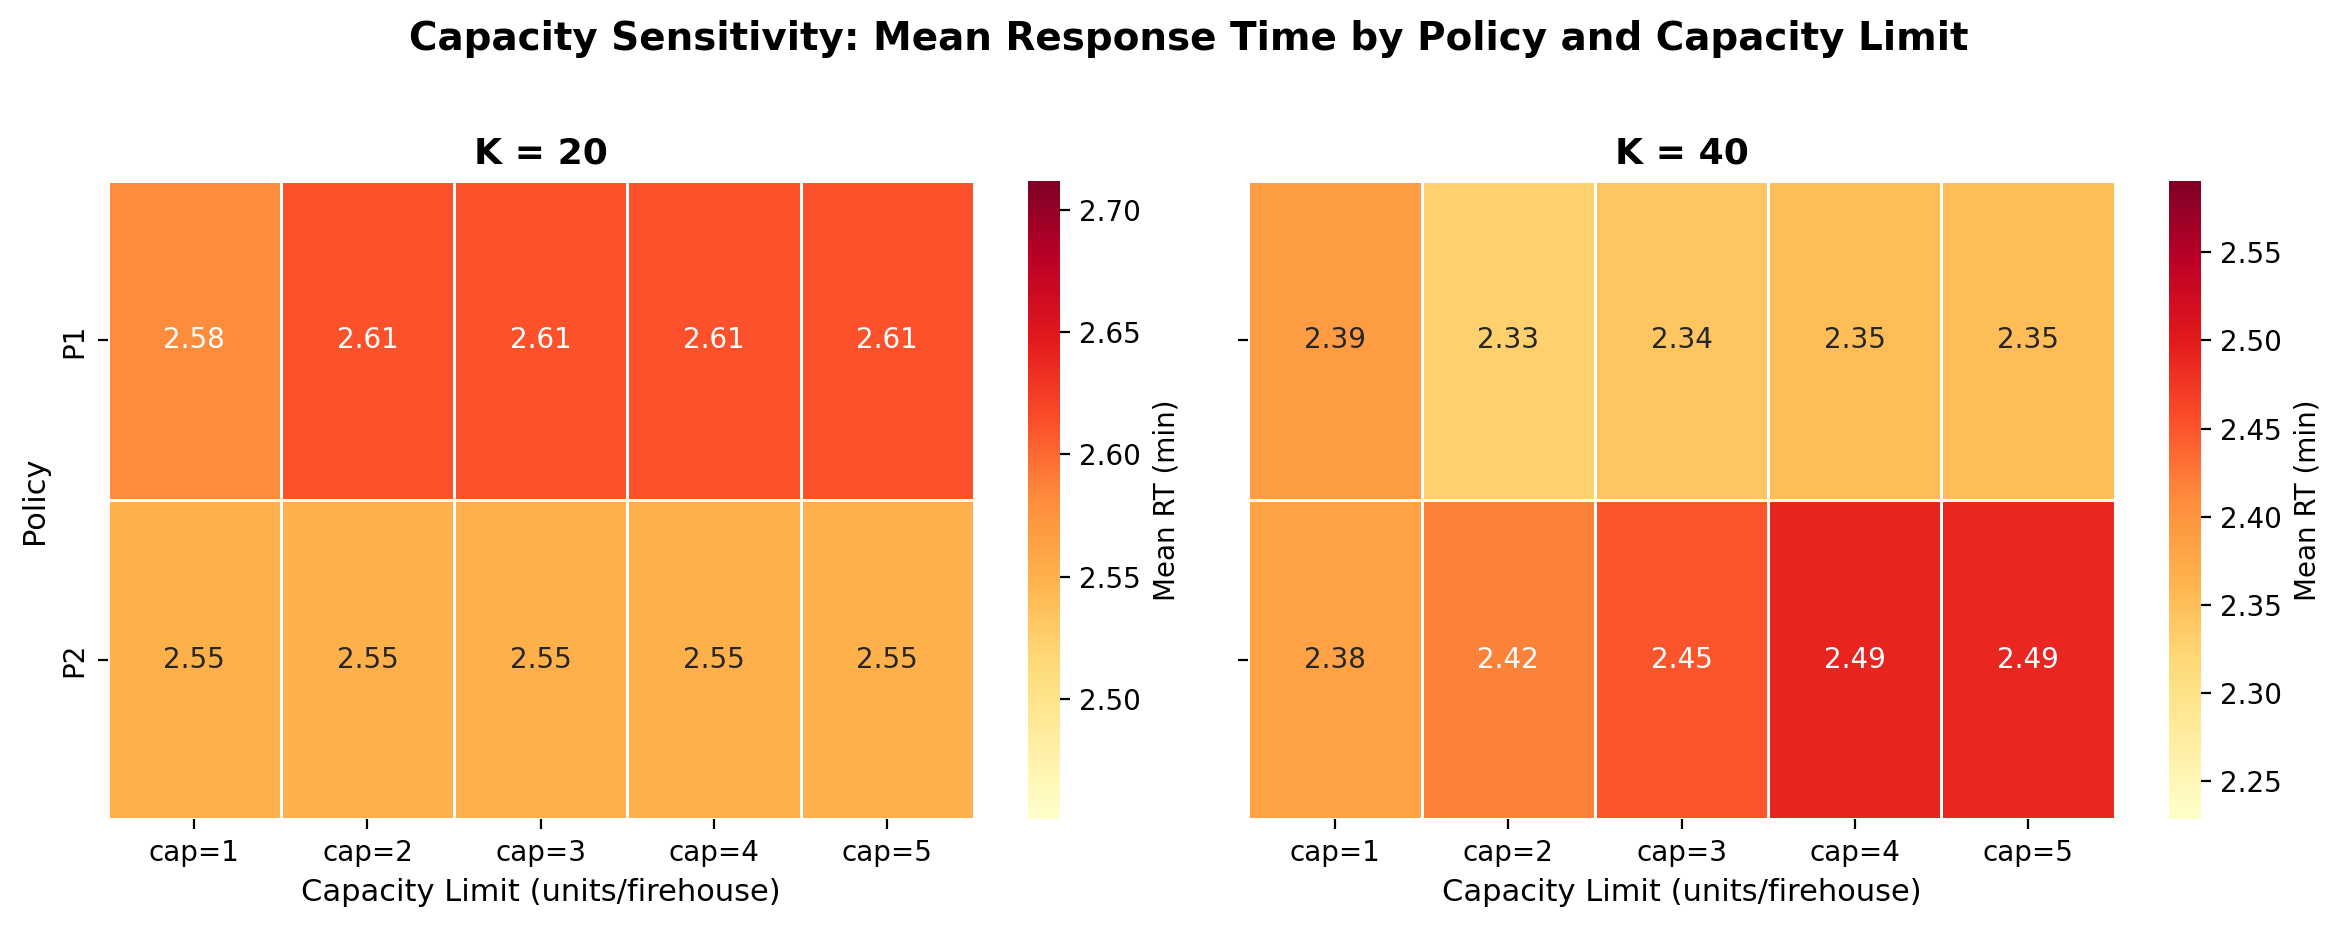
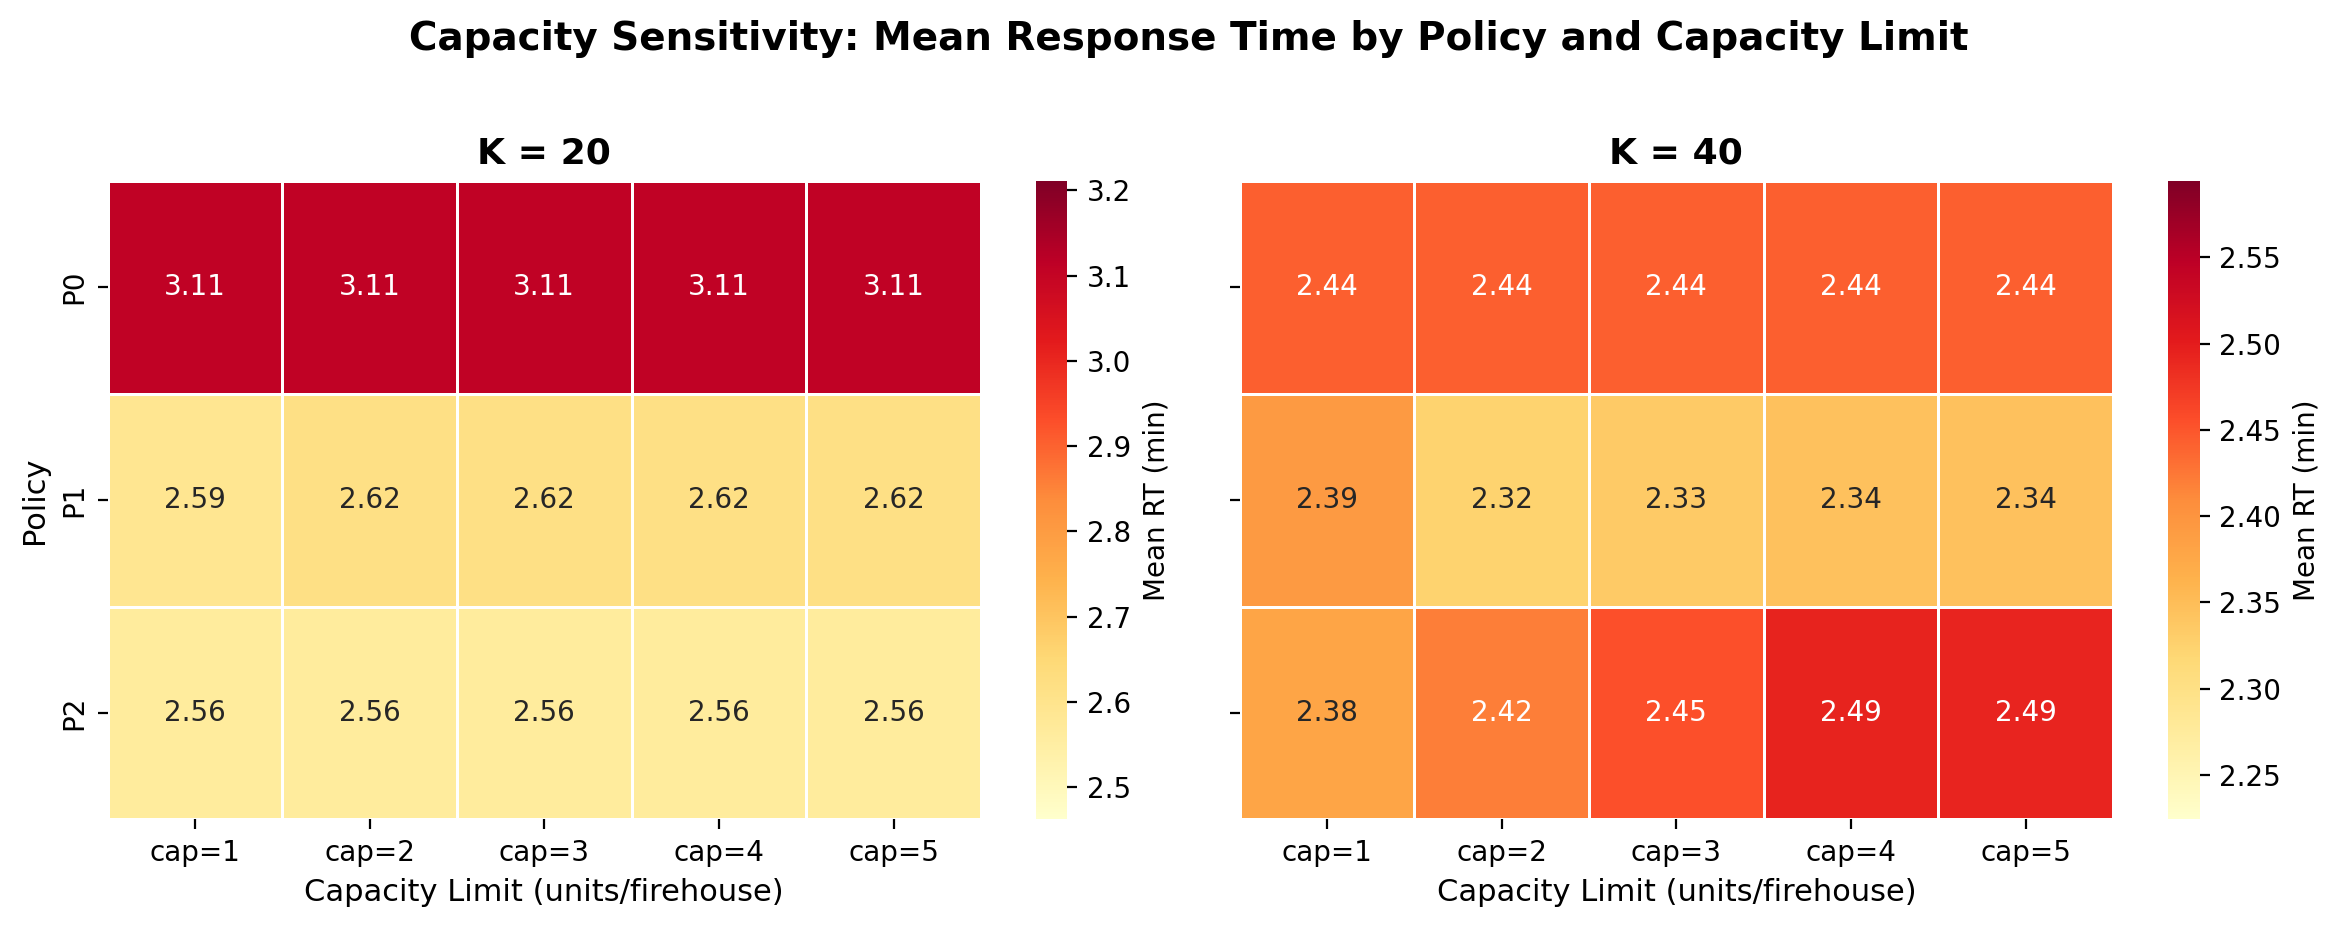
fix: capacity_sensitivity_heatmap missing P0 due to policy label mismatch
The POLICY_LABELS dict in generate_capacity_sensitivity_heatmap.py mapped
'P0_spatial' -> 'P0' but the simulation CSV uses 'P0' directly. Added all
known policy name variants to the mapping and deduplicated the reindex.

Also updated output_comparison_report.md to remove 'broken' annotations
now that the heatmap renders correctly with all three policies.

diff --git a/scripts/generate_capacity_sensitivity_heatmap.py b/scripts/generate_capacity_sensitivity_heatmap.py
@@ -20,10 +20,13 @@ RESULTS_DIR = PROJECT_ROOT / "results" / "capacity_comparison"
 FIGURES_DIR = PROJECT_ROOT / "results" / "figures"
 FIGURES_DIR.mkdir(parents=True, exist_ok=True)
 
-# Policy display names
+# Policy display names — map all known variants to canonical labels
 POLICY_LABELS = {
+    "P0": "P0",
     "P0_spatial": "P0",
+    "P1": "P1",
     "P1_demand": "P1",
+    "P2": "P2",
     "P2_optimised": "P2",
 }
 
@@ -91,8 +94,8 @@ def create_heatmap(df, k_values=(20, 40)):
             aggfunc="mean"
         )
 
-        # Sort policies in order P0, P1, P2
-        policy_order = [v for v in POLICY_LABELS.values() if v in pivot.index]
+        # Sort policies in order P0, P1, P2 (deduplicated)
+        policy_order = list(dict.fromkeys(v for v in POLICY_LABELS.values() if v in pivot.index))
         pivot = pivot.reindex(policy_order)
 
         # Sort columns numerically

diff --git a/docs/output_comparison_report.md b/docs/output_comparison_report.md
@@ -98,7 +98,7 @@
 - `verification_toy_timeline.png` — Verification: toy example event trace
 
 #### Capacity Sensitivity (2 figures)
-- `capacity_sensitivity_heatmap.png` — Capacity sensitivity heatmap (**broken — shows "Data format issue"**)
+- `capacity_sensitivity_heatmap.png` — Capacity sensitivity heatmap (P0/P1/P2 × cap=1–5 at K=20 and K=40)
 - `firehouse_capacity_analysis.png` — Firehouse capacity analysis
 
 #### CBD / Robustness Analysis (6 figures)
@@ -191,7 +191,7 @@
 | 10 | **Allocation comparison visualization** (which firehouses get units) | NB 05 | Shows spatial allocation differences between policies |
 | 11 | **Response time distribution by policy** (histograms/violin) | NB 07 | Richer than just mean RT; shows distributional shape |
 | 12 | **Seasonal/monthly patterns** | NB 02 | Shows temporal demand structure beyond hourly/DoW |
-| 13 | **Capacity sensitivity analysis** | Scripts | Shows cap=2 is sufficient (currently broken heatmap in project) |
+| 13 | **Capacity sensitivity analysis** | Scripts | Shows cap=2 is sufficient |
 
 ### Optional Gaps (detailed analysis, fine in specialized notebooks)
 
